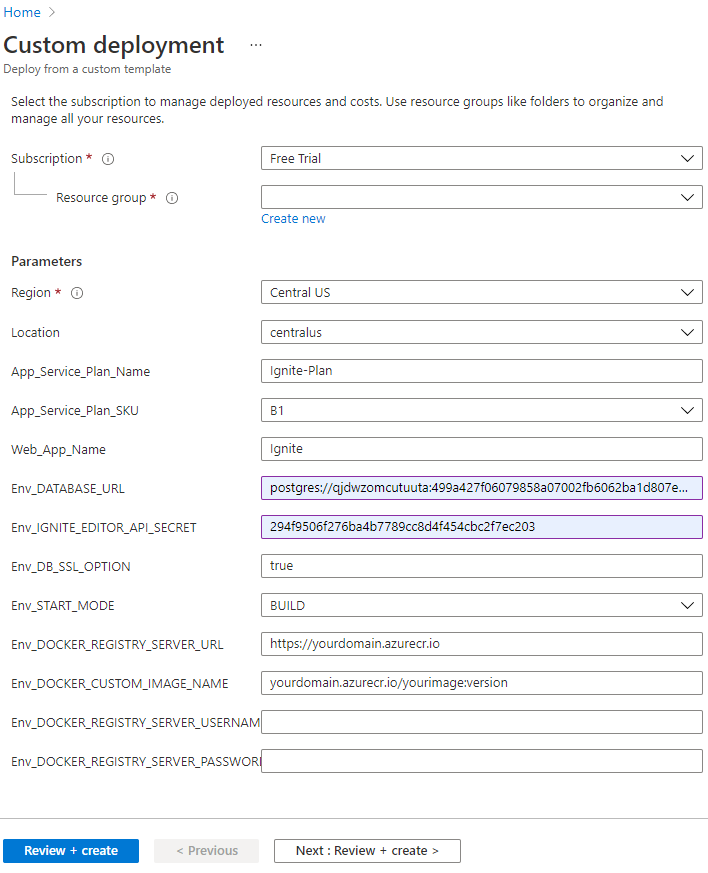
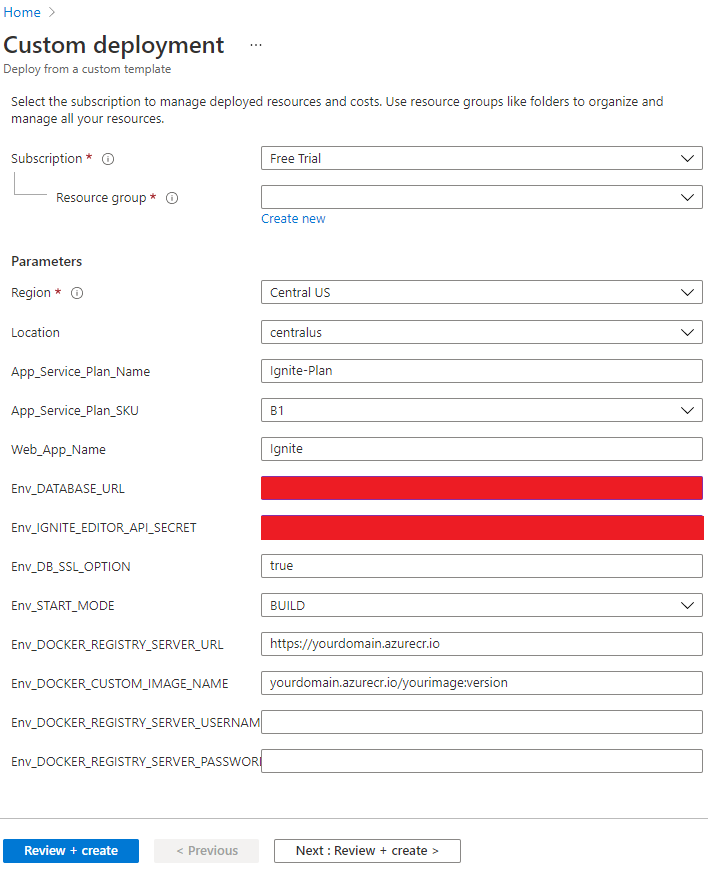
modifying deploy to azure and local pages

Changed region(s): [[0.3418, 0.5258, 0.9944, 0.6186]]

diff --git a/sidebars.js b/sidebars.js
@@ -203,7 +203,7 @@ module.exports = {
         ],
         "CI/CD": [
            "devops-practices/ci-cd/azure",
-           "devops-practices/ci-cd/heroku"
+           //"devops-practices/ci-cd/heroku"
         ]
       }
     ]

diff --git a/docs/devops-practices/ci-cd/azure.md b/docs/devops-practices/ci-cd/azure.md
@@ -115,24 +115,34 @@ On Image Name
 
 Deploy using private repository (local development)
 
-### 1.	Get Ignite Keys
+### 1. Create App
 
-Visit **<u><a href="https://dashboard.heroku.com/apps" target="_blank">https://dashboard.heroku.com/apps</a></u>**
+Visit: **<u><a href="https://dashboard.cgignite.io/apps" target="_blank">https://dashboard.cgignite.io/apps</a></u>**
 
-Select your deployed application from Heroku dashboard
+Click on button **“New App”**
 
-![img](/assets/docs/deploy-to-azure/heroku-app.png)
+![](/assets/docs/deploy-to-azure/new-app.png)
 
-Go to Settings tab and click on **"Reveal Config Vars"**
+### 2. Set App Name
 
-![img](/assets/docs/deploy-to-azure/heroku-setting.png)
+Provide a suitable name for your application and click on button **“Create App”**
 
-You will find **IGNITE_EDITOR_API_SECRET**
+![](/assets/docs/deploy-to-azure/new-app-popup.png)
 
-![img](/assets/docs/deploy-to-azure/heroku-keys.png)
+### 3. Get Ignite Keys
+
+You will get the IGNIT_EDITOR_API_SECRET key, copy or save this key for later use in <u>**[Deploy to Azure](#4-deploy-to-azure)**</u>.
+
+![](/assets/docs/deploy-to-azure/ignite-runtime-registration.png)
+
+### 4. Set Ignite Runtime URL
+
+We will setup this URL once we will finish the "<u>**[deploy-on-azure](#3-deploy-to-azure)**</u>".
+
+![](/assets/docs/deploy-to-azure/ignite-runtime-url-popup.png)
 
 
-### 2.	Deploy to Azure
+### 5. Deploy to Azure
 
 After the Ignite Platform team provisions your account, you may use the following **"Deploy to Azure"** button to get started your deployment using local development with private repository.
 
@@ -162,9 +172,9 @@ All resources in an Azure subscription are billed together.
 - **Web_App_Name:** Create a unique and suitable web application name. Your deployed application will be running with your web app name. for example, if Web_App_name is "myDemo" then application will be hosted in URL 
     > **[https://myDemo.azurewebsites.net/](#)**
 
-- **ENV_DATABASE_URL:** This URL includes protocol, user credentials, host and port. Refer to your database configurations
+- **ENV_DATABASE_URL:** This URL includes protocol, user credentials, host and port. Refer to [database credential](#3-database-credential)
 
-- **ENV_IGNITE_EDITOR_API_SECRET:** This API key is found within the **<u><a href="https://dashboard.cgignite.io/apps" target="_blank">Ignite Dashboard</a></u>** when registering an app
+- **ENV_IGNITE_EDITOR_API_SECRET:** This API key is found within the **<u><a href="https://dashboard.cgignite.io/apps" target="_blank">Ignite Dashboard</a></u>** when registering an app. Refer to [Get Ignite Keys](#3-get-ignite-keys)
 
 - **ENV_DB_SSL_OPTION:** If your database supports or requires SSL, it is recommended to turn this on
 
@@ -177,6 +187,19 @@ All resources in an Azure subscription are billed together.
 - **Env_DOCKER_REGISTRY_SERVER_USERNAME** Provide docker registry server username
 
 - **Env_DOCKER_REGISTRY_SERVER_PASSWORD** Provide docker registry server password
+
+
+### 6. Finish Ignite Runtime URL
+
+ - Once azure application will be deployed successfully you will get the application url like **[https://myDemo.azurewebsites.net/](#)**
+
+- Go back to [Runtime regisration step](#4-set-ignite-runtime-url) and paste the runtime url and click on **"Test Connection"** 
+
+![img](/assets/docs/deploy-to-azure/finish-runtime-registration.png)
+
+- Click **Launch** button on your application in the [Dashboard](https://dashboard.cgignite.io/apps) and start execution.
+
+    ![img](/assets/docs/deploy-to-azure/launch-app.png)
 
 Repeat above steps for others environment like Dev, QA, and Prod
 

diff --git a/docs/getting-started/try-ignite/deploy-an-app/deploy-to-azure/deploy-on-azure.md b/docs/getting-started/try-ignite/deploy-an-app/deploy-to-azure/deploy-on-azure.md
@@ -50,11 +50,9 @@ You will get the IGNIT_EDITOR_API_SECRET key, copy or save this key for later us
 
 ### Set Ignite Runtime URL
 
-We will setup this URL once we will finish the "<u>**[deploy-on-azure](#set-cgignite-dashboard-app)**</u>".
+We will setup this URL once we will finish the "<u>**[deploy-on-azure](#3-deploy-application-using-docker-hub-public-repository)**</u>".
 
 ![](/assets/docs/deploy-to-azure/ignite-runtime-url-popup.png)
-
-
 
 
 ## 3. Deploy Application Using Docker Hub Public Repository
@@ -87,9 +85,9 @@ All resources in an Azure subscription are billed together.
 - **Web_App_Name:** Create a unique and suitable web application name. Your deployed application will be running with your web app name. for example, if Web_App_name is "myDemo" then application will be hosted in URL 
     > **[https://myDemo.azurewebsites.net/](#)**
 
-- **ENV_DATABASE_URL:** This URL includes protocol, user credentials, host and port. Refer to [database configurations](#database-credential)
+- **ENV_DATABASE_URL:** This URL includes protocol, user credentials, host and port. Refer to [database credential](#database-credential)
 
-- **ENV_IGNITE_EDITOR_API_SECRET:** This API key is found within the **<u><a href="https://dashboard.cgignite.io/apps" target="_blank">Ignite Dashboard</a></u>** when registering an app. Refer to [Get Ignite Keys](#2-create-app-and-get-ignite-keys-in-cgignite-dashboard)
+- **ENV_IGNITE_EDITOR_API_SECRET:** This API key is found within the **<u><a href="https://dashboard.cgignite.io/apps" target="_blank">Ignite Dashboard</a></u>** when registering an app. Refer to [Get Ignite Keys](#get-key-for-aws-container-creation)
 
 - **ENV_DB_SSL_OPTION:** If your database supports or requires SSL, it is recommended to turn this on
 
@@ -112,5 +110,14 @@ Once deployment completed you will get message as below–
 
 ![img](/assets/docs/deploy-to-azure/deployment-complete-msg.png)
 
+## 4. Finish Ignite Runtime URL
 
+ - Once azure application will be deployed successfully you will get the application url like **[https://myDemo.azurewebsites.net/](#)**
 
+- Go back to [Runtime regisration step](#set-ignite-runtime-url) and paste the runtime url and click on **"Test Connection"** 
+
+![img](/assets/docs/deploy-to-azure/finish-runtime-registration.png)
+
+- Click **Launch** button on your application in the [Dashboard](https://dashboard.cgignite.io/apps) and start execution.
+
+    ![img](/assets/docs/deploy-to-azure/launch-app.png)
